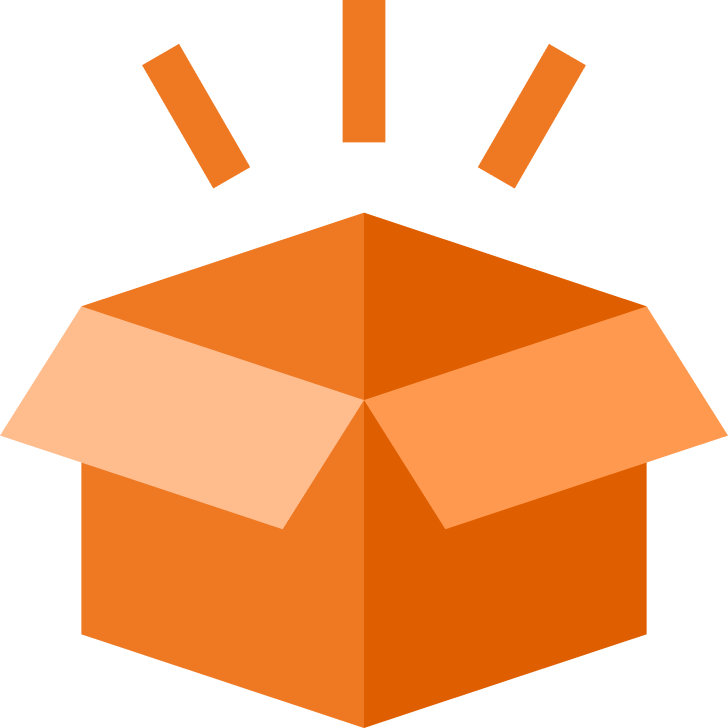
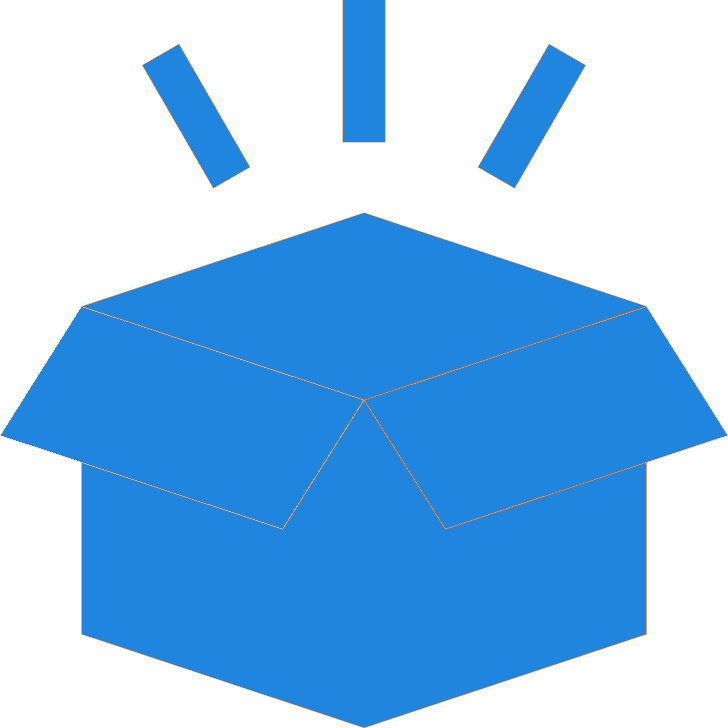
Updated the Splash Screen and Custom Images

diff --git a/lib/Screens/splash_screen.dart b/lib/Screens/splash_screen.dart
@@ -4,9 +4,85 @@ import 'package:flutter/material.dart';
 import 'package:food_delivery_app/routes/route_Helper.dart';
 import 'package:food_delivery_app/utils/dimensions.dart';
 import 'package:get/get.dart';
+import 'package:lottie/lottie.dart';
 
 import '../controllers/popular_product_conroller.dart';
 import '../controllers/recommended_Product_controller.dart';
+
+/* Normal Animation */
+
+// class SplashScreen extends StatefulWidget {
+//   const SplashScreen({super.key});
+//
+//   @override
+//   State<SplashScreen> createState() => _SplashScreenState();
+// }
+//
+// class _SplashScreenState extends State<SplashScreen>
+//     with TickerProviderStateMixin {
+//   late Animation<double> animation;
+//   late AnimationController animationController;
+//
+//   Future<void> _isLoaded() async {
+//     await Get.find<PopularProductController>().getPopularProductListFromRepo();
+//     await Get.find<RecommendedProductController>()
+//         .getRecommendedProductListFromRepo();
+//   }
+//
+//   @override
+//   void initState() {
+//     // TODO: implement initState
+//     super.initState();
+//     _isLoaded();
+//     animationController = AnimationController(
+//       vsync: this,
+//       duration: Duration(seconds: 3),
+//     )..forward();
+//     animation = CurvedAnimation(
+//       parent: animationController,
+//       curve: Curves.linear,
+//     );
+//
+//     Timer(Duration(seconds: 3), () => Get.offNamed(RouteHelper.getInitial()));
+//   }
+//
+//   @override
+//   void dispose() {
+//     animationController
+//         .dispose(); // Properly dispose of the AnimationController
+//     super.dispose();
+//   }
+//
+//   @override
+//   Widget build(BuildContext context) {
+//     return Scaffold(
+//       backgroundColor: Colors.white,
+//       body: Column(
+//         mainAxisAlignment: MainAxisAlignment.center,
+//         children: [
+//           ScaleTransition(
+//             scale: Tween<double>(begin: 0, end: 1.5).animate(animation),
+//             // child: Center(
+//             //     child: Image.asset(
+//             //   "assets/image/logo part 1.png",
+//             //   width: Dimensions.width230,
+//             // )),
+//             child: Center(
+//               child: Lottie.network(
+//                   "https://lottie.host/7df86832-e51b-4b8d-8ec4-ab326723c91e/sZwjopOZ7i.json"),
+//             ),
+//           ),
+//           Center(
+//             child: Image.asset(
+//               "assets/image/logo part 2.png",
+//               width: Dimensions.width250,
+//             ),
+//           ),
+//         ],
+//       ),
+//     );
+//   }
+// }
 
 class SplashScreen extends StatefulWidget {
   const SplashScreen({super.key});
@@ -19,6 +95,7 @@ class _SplashScreenState extends State<SplashScreen>
     with TickerProviderStateMixin {
   late Animation<double> animation;
   late AnimationController animationController;
+  late AnimationController lottieController;
 
   Future<void> _isLoaded() async {
     await Get.find<PopularProductController>().getPopularProductListFromRepo();
@@ -28,25 +105,40 @@ class _SplashScreenState extends State<SplashScreen>
 
   @override
   void initState() {
-    // TODO: implement initState
     super.initState();
     _isLoaded();
+
     animationController = AnimationController(
       vsync: this,
-      duration: Duration(seconds: 3),
+      duration: const Duration(seconds: 3),
     )..forward();
     animation = CurvedAnimation(
       parent: animationController,
-      curve: Curves.linear,
+      curve: Curves.easeInOut,
     );
 
-    Timer(Duration(seconds: 3), () => Get.offNamed(RouteHelper.getInitial()));
+    lottieController = AnimationController(
+      vsync: this,
+      duration: const Duration(seconds: 5),
+    );
+
+    animationController.addStatusListener((status) {
+      if (status == AnimationStatus.completed) {
+        lottieController.forward();
+      }
+    });
+
+    lottieController.addStatusListener((status) {
+      if (status == AnimationStatus.completed) {
+        Get.offNamed(RouteHelper.getInitial());
+      }
+    });
   }
 
   @override
   void dispose() {
-    animationController
-        .dispose(); // Properly dispose of the AnimationController
+    animationController.dispose();
+    lottieController.dispose();
     super.dispose();
   }
 
@@ -58,12 +150,16 @@ class _SplashScreenState extends State<SplashScreen>
         mainAxisAlignment: MainAxisAlignment.center,
         children: [
           ScaleTransition(
-            scale: Tween<double>(begin: 0, end: 1.5).animate(animation),
+            scale: Tween<double>(begin: 0, end: 1.0).animate(animation),
             child: Center(
-                child: Image.asset(
-              "assets/image/logo part 1.png",
-              width: Dimensions.width230,
-            )),
+              child: Lottie.asset(
+                "assets/animations/Animation_1.json",
+                controller: lottieController,
+                onLoaded: (composition) {
+                  lottieController.duration = const Duration(seconds: 4);
+                },
+              ),
+            ),
           ),
           Center(
             child: Image.asset(

diff --git a/lib/Screens/account/account_page.dart b/lib/Screens/account/account_page.dart
@@ -80,8 +80,7 @@ class AccountPage extends StatelessWidget {
                                       AccountField(
                                         appIcon: AppIcon(
                                           icon: Icons.phone_android,
-                                          backgroundColor:
-                                              AppColors.yellowColor,
+                                          backgroundColor: AppColors.mainColor,
                                           iconColor: Colors.white,
                                           iconSize: Dimensions.height30,
                                           size: Dimensions.height50,
@@ -95,8 +94,7 @@ class AccountPage extends StatelessWidget {
                                       AccountField(
                                         appIcon: AppIcon(
                                           icon: Icons.email,
-                                          backgroundColor:
-                                              AppColors.yellowColor,
+                                          backgroundColor: AppColors.mainColor,
                                           iconColor: Colors.white,
                                           iconSize: Dimensions.height30,
                                           size: Dimensions.height50,
@@ -156,7 +154,7 @@ class AccountPage extends StatelessWidget {
                                       AccountField(
                                         appIcon: AppIcon(
                                           icon: Icons.message,
-                                          backgroundColor: Colors.redAccent,
+                                          backgroundColor: AppColors.paraColor,
                                           iconColor: Colors.white,
                                           iconSize: Dimensions.height30,
                                           size: Dimensions.height50,
@@ -180,7 +178,7 @@ class AccountPage extends StatelessWidget {
                                       AccountField(
                                         appIcon: AppIcon(
                                           icon: Icons.help,
-                                          backgroundColor: AppColors.paraColor,
+                                          backgroundColor: AppColors.mainColor,
                                           iconColor: Colors.white,
                                           iconSize: Dimensions.height30,
                                           size: Dimensions.height50,
@@ -208,8 +206,7 @@ class AccountPage extends StatelessWidget {
                                         child: AccountField(
                                           appIcon: AppIcon(
                                             icon: Icons.exit_to_app,
-                                            backgroundColor:
-                                                AppColors.yellowColor,
+                                            backgroundColor: Colors.redAccent,
                                             iconColor: Colors.white,
                                             iconSize: Dimensions.height30,
                                             size: Dimensions.height50,

diff --git a/lib/Screens/home/homepage.dart b/lib/Screens/home/homepage.dart
@@ -73,9 +73,9 @@ class _HomePageState extends State<HomePage> {
           PersistentTabConfig(
             screen: const MainFoodPage(),
             item: ItemConfig(
-              icon: Icon(Icons.home),
+              icon: const Icon(Icons.home),
               activeForegroundColor: AppColors.mainColor,
-              inactiveForegroundColor: Colors.amberAccent,
+              inactiveForegroundColor: const Color(0xFF95BFE3),
               title: "Home",
             ),
           ),
@@ -84,27 +84,27 @@ class _HomePageState extends State<HomePage> {
               child: const Center(child: Text("Cart History")),
             ),
             item: ItemConfig(
-              icon: Icon(Icons.archive),
+              icon: const Icon(Icons.archive),
               activeForegroundColor: AppColors.mainColor,
-              inactiveForegroundColor: Colors.amberAccent,
+              inactiveForegroundColor: const Color(0xFF95BFE3),
               title: "History",
             ),
           ),
           PersistentTabConfig(
             screen: const CartHistory(),
             item: ItemConfig(
-              icon: Icon(Icons.shopping_cart),
+              icon: const Icon(Icons.shopping_cart),
               activeForegroundColor: AppColors.mainColor,
-              inactiveForegroundColor: Colors.amberAccent,
+              inactiveForegroundColor: const Color(0xFF95BFE3),
               title: "Cart",
             ),
           ),
           PersistentTabConfig(
             screen: const AccountPage(),
             item: ItemConfig(
-              icon: Icon(Icons.person),
+              icon: const Icon(Icons.person),
               activeForegroundColor: AppColors.mainColor,
-              inactiveForegroundColor: Colors.amberAccent,
+              inactiveForegroundColor: const Color(0xFF95BFE3),
               title: "Me",
             ),
           ),

diff --git a/lib/Screens/food/recommended_food_detail.dart b/lib/Screens/food/recommended_food_detail.dart
@@ -109,7 +109,7 @@ class RecommendedFoodDetail extends StatelessWidget {
               ),
             ),
             pinned: true,
-            backgroundColor: AppColors.yellowColor,
+            backgroundColor: AppColors.mainColor,
             expandedHeight: Dimensions.height300,
             flexibleSpace: FlexibleSpaceBar(
               background: Image.network(
@@ -157,6 +157,7 @@ class RecommendedFoodDetail extends StatelessWidget {
                       controller.setQuantity(false);
                     },
                     child: AppIcon(
+                      iconColor: Colors.white,
                       icon: Icons.remove,
                       backgroundColor: AppColors.mainColor,
                     ),
@@ -170,6 +171,7 @@ class RecommendedFoodDetail extends StatelessWidget {
                       controller.setQuantity(true);
                     },
                     child: AppIcon(
+                      iconColor: Colors.white,
                       icon: Icons.add,
                       backgroundColor: AppColors.mainColor,
                     ),

diff --git a/lib/data/api/api_client.dart b/lib/data/api/api_client.dart
@@ -17,6 +17,7 @@ class ApiClient extends GetConnect implements GetxService {
     _mainHeaders = {
       "Content-type": "application/json; charset=UTF-8",
       "Authorization": "Bearer $token",
+      "HttpHeaders.contentTypeHeader": "application/json",
     };
   }
 
@@ -24,6 +25,7 @@ class ApiClient extends GetConnect implements GetxService {
     _mainHeaders = {
       "Content-type": "application/json; charset=UTF-8",
       "Authorization": "Bearer $token",
+      "HttpHeaders.contentTypeHeader": "application/json",
     };
   }
 

diff --git a/lib/routes/route_Helper.dart b/lib/routes/route_Helper.dart
@@ -62,21 +62,21 @@ class RouteHelper {
     GetPage(
       name: cartPage,
       page: () {
-        return CartPage();
+        return const CartPage();
       },
       transition: Transition.fadeIn,
     ),
     GetPage(
       name: signInPage,
       page: () {
-        return SignInPage();
+        return const SignInPage();
       },
       transition: Transition.fade,
     ),
     GetPage(
       name: addressPage,
       page: () {
-        return AddressPage();
+        return const AddressPage();
       },
     ),
     GetPage(

diff --git a/lib/utils/Colors.dart b/lib/utils/Colors.dart
@@ -2,7 +2,8 @@ import 'dart:ui';
 
 class AppColors {
   static const Color textColor = Color(0xFFccc7c5);
-  static const Color mainColor = Color(0xFF89dad0);
+  // static const Color mainColor = Color(0xFF89dad0);
+  static const Color mainColor = Color(0xFF1F85DE);
   //static const Color mainColor = const Color(0xFFfa7552);
   static const Color iconColor1 = Color(0xFFffd28d);
   static const Color iconColor2 = Color(0xFFfcab88);

diff --git a/lib/Screens/cart/cart_hisory.dart b/lib/Screens/cart/cart_hisory.dart
@@ -73,7 +73,7 @@ class CartHistory extends StatelessWidget {
                 AppIcon(
                   icon: Icons.shopping_cart_outlined,
                   iconColor: Colors.white,
-                  backgroundColor: AppColors.yellowColor,
+                  backgroundColor: const Color(0xFF95BFE3),
                 ),
               ],
             ),
